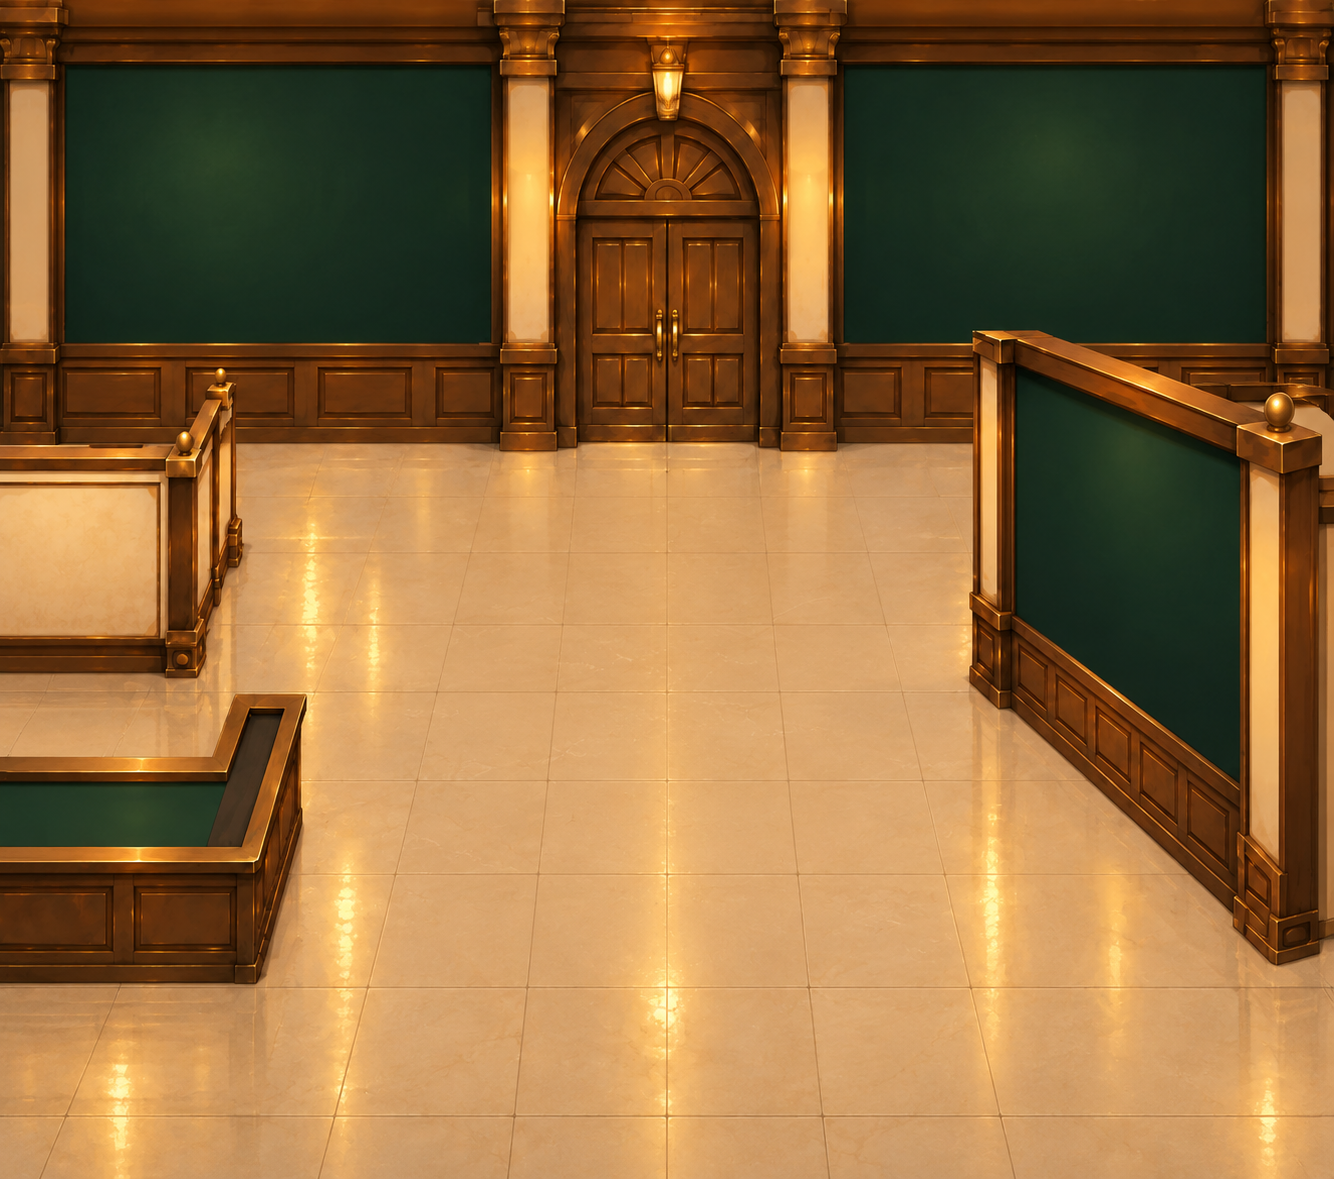
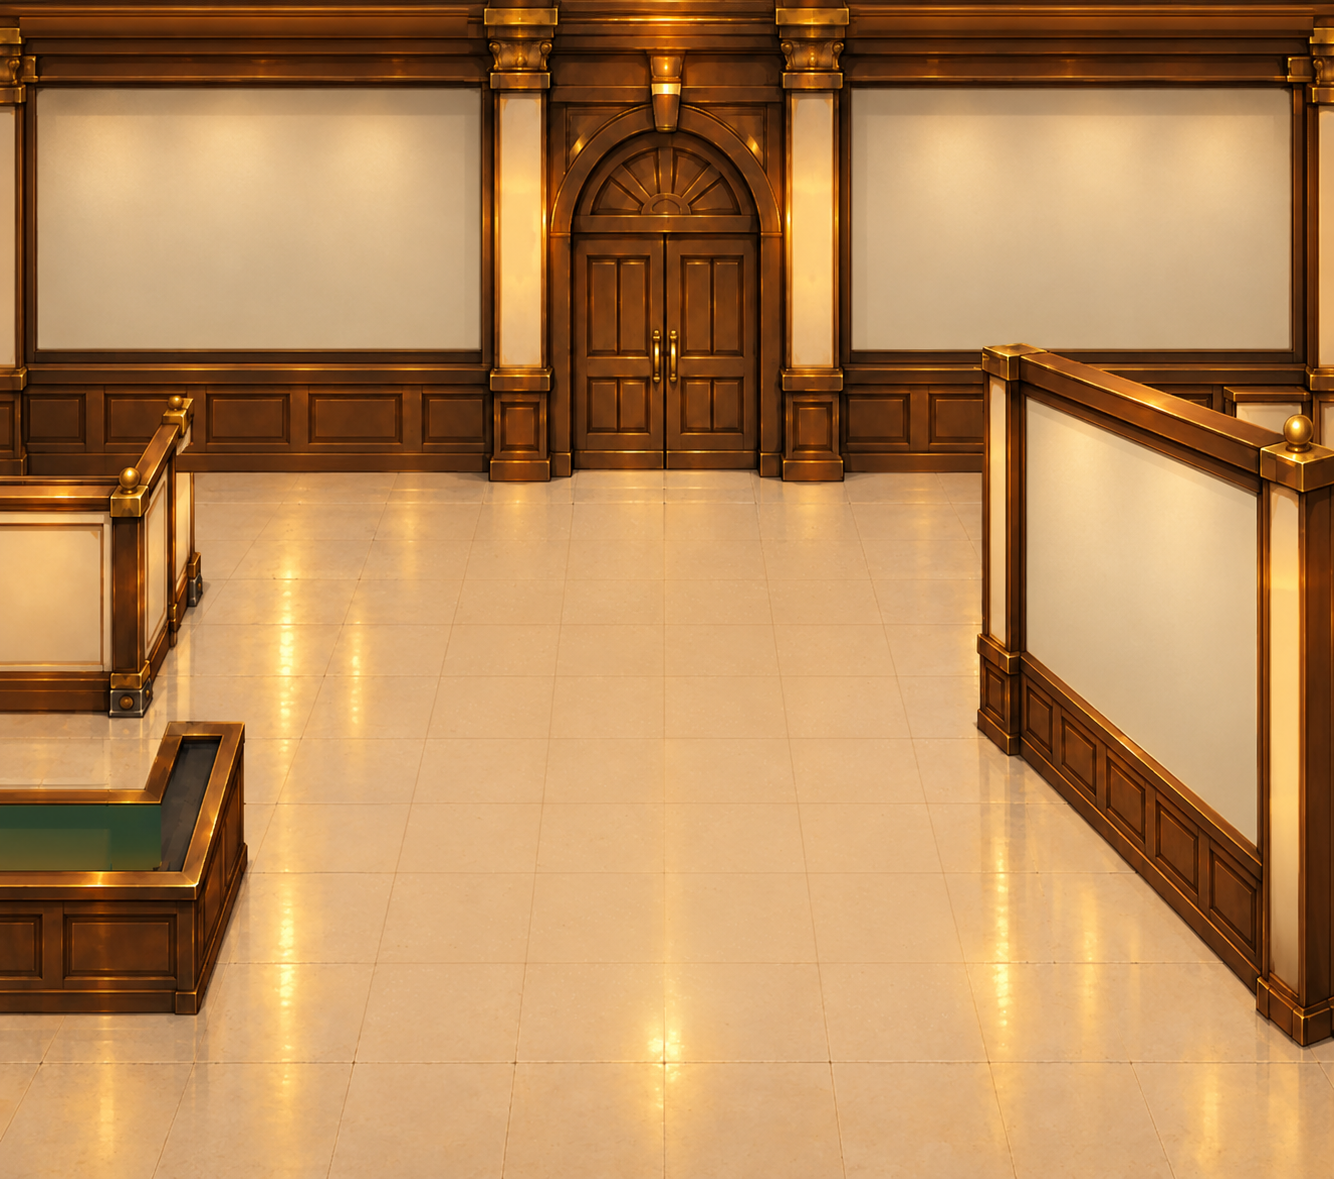
Record approved v11 art and v10-v11 comparison before adoption

diff --git a/a18/build_clean_v11_geometry.py b/a18/build_clean_v11_geometry.py
@@ -1,33 +1,29 @@
-"""Construct only new drawing placement mask and projective geometry.
-No old background pixels reused. The 1334x1179 newly authored image is sole architecture source.
-"""
+"""Recreate front-wall projection only from the approved architectural image."""
 from pathlib import Path
 from PIL import Image,ImageDraw
 import numpy as np,cv2,json,hashlib
 root=Path(__file__).resolve().parent
 dst=root/"layout-test/assets/entrance/v11"
 bg=dst/"entrance_clean_redraw_546x483.png"
-assert Image.open(bg).size==(546,483)
-# Four corners lie inside the green inset, avoiding its wooden border.
-target=np.float32([[419,168],[505,194],[504,343],[419,285]])
+if Image.open(bg).size!=(546,483):raise ValueError("E_BG_DIM")
+# All corners are strictly within the newly approved cream inset, not on the frame.
+target=np.float32([[420,169],[509,194],[507,387],[415,294]])
 source=np.float32([[84,61],[194,61],[194,144],[84,144]])
 H=cv2.getPerspectiveTransform(source,target)
-Hinv=np.linalg.inv(H)
-if not np.isfinite(Hinv).all():raise RuntimeError("invalid perspective transform")
-coords=np.concatenate([source,np.ones((4,1),dtype=np.float32)],axis=1)
-result=(H@coords.T).T
-result=result[:,:2]/result[:,2,None]
-assert np.max(np.abs(result-target))<.02
-s=4
-a=Image.new("L",(546*s,483*s),0)
-draw=ImageDraw.Draw(a)
-draw.polygon([(int(x*s),int(y*s)) for x,y in target],fill=255)
-mask=a.resize((546,483),Image.Resampling.LANCZOS)
+inverse=np.linalg.inv(H)
+if not np.isfinite(inverse).all():raise ValueError("E_H_INVALID")
+proj=(H@np.c_[source,np.ones(4)].T).T
+proj=proj[:,:2]/proj[:,2,None]
+if np.abs(proj-target).max()>=0.02:raise ValueError("E_H_MISMATCH")
+ss=4
+im=Image.new("L",(546*ss,483*ss),0)
+ImageDraw.Draw(im).polygon([(round(x*ss),round(y*ss)) for x,y in target],fill=255)
 out=dst/"front_photo_mask_v11.png"
-mask.save(out,optimize=True)
-count=int(np.count_nonzero(np.asarray(mask)))
-assert 8000<count<15000,count
-manifest=json.loads((dst/"source_manifest.json").read_text(encoding="utf-8"))
-manifest.update({"front_mask_file":str(out.relative_to(root)).replace("\\","/"),"front_mask_sha256":hashlib.sha256(out.read_bytes()).hexdigest(),"front_mask_nonzero_pixels":count,"front_quad":[[int(x),int(y)] for x,y in target],"front_source_corners":[[int(x),int(y)] for x,y in source],"front_inverse_homography":Hinv.tolist(),"open_issues":["central door light remains part of the newly drawn architecture","review portrait frame fit and the 3D wall image projection in actual browser"],"browser_qa":"not_run"})
-(dst/"source_manifest.json").write_text(json.dumps(manifest,ensure_ascii=False,indent=2)+"\n",encoding="utf-8")
-print(json.dumps({"front_H_inverse":Hinv.tolist(),"front_mask_pixels":count},indent=2))
+im.resize((546,483),Image.Resampling.LANCZOS).save(out,optimize=True)
+count=int(np.count_nonzero(np.asarray(Image.open(out))))
+if not 12000<count<21000:raise ValueError(("E_MASK_COUNT",count))
+manifest_path=dst/"source_manifest.json"
+manifest=json.loads(manifest_path.read_text(encoding="utf-8"))
+manifest.update({"front_mask_file":out.relative_to(root).as_posix(),"front_mask_sha256":hashlib.sha256(out.read_bytes()).hexdigest(),"front_mask_nonzero_pixels":count,"front_quad":target.astype(int).tolist(),"front_source_corners":source.astype(int).tolist(),"front_inverse_homography":inverse.tolist()})
+manifest_path.write_text(json.dumps(manifest,ensure_ascii=False,indent=2)+"\n",encoding="utf-8")
+print("FRONT_INVERSE=",json.dumps(inverse.tolist()),"MASK_PIXELS",count)

diff --git a/a18/stage_clean_redraw.py b/a18/stage_clean_redraw.py
@@ -1,21 +1,19 @@
-"""Stage an entirely newly rendered entrance architecture image. Never alter v09/v10 assets."""
-from PIL import Image
+"""Rebuild approved entrance background from the user-approved immutable PNG, never an older draft."""
 from pathlib import Path
+from PIL import Image
 from hashlib import sha256
-import json,shutil
+import json
 root=Path(__file__).resolve().parent
-drive=Path("G:/マイドライブ/A18_entrance_redraw_candidate.png")
-if not drive.is_file():raise FileNotFoundError("Drive image source not synced: "+str(drive))
 source=root/"art-sources/entrance_clean_redraw_master_20261027.png"
-source.parent.mkdir(parents=True,exist_ok=True)
-shutil.copyfile(drive,source)
[1 lines of base64/hex data omitted]
+digest=lambda p:sha256(p.read_bytes()).hexdigest()
+if digest(source)!=expected:raise ValueError("E_APPROVED_A18_ASSET_HASH_MISMATCH")
 im=Image.open(source).convert("RGB")
-if im.size!=(1334,1179):raise ValueError(("unexpected original image dims",im.size))
+if im.size!=(1334,1179):raise ValueError("E_APPROVED_A18_ASSET_SIZE")
 dest=root/"layout-test/assets/entrance/v11"
 dest.mkdir(parents=True,exist_ok=True)
 target=dest/"entrance_clean_redraw_546x483.png"
 im.resize((546,483),Image.Resampling.LANCZOS).save(target,optimize=True)
-fingerprint=lambda p:sha256(p.read_bytes()).hexdigest()
-manifest={"status":"draft_only_not_main_not_released","source_kind":"full_scene_new_image_generation_not_old_v09_patch","canvas":[546,483],"source_file":str(source.relative_to(root)).replace("\\","/"),"source_sha256":fingerprint(source),"game_file":str(target.relative_to(root)).replace("\\","/"),"game_sha256":fingerprint(target),"source_resolution":[1334,1179],"open_issues":["central door sconce remains painted","old foreground homography must be refit","portrait frame may exceed wall green panel"],"approved":False}
+manifest={"status":"approved_image_pending_game_QA","source_kind":"user_approved_image_generated_20261027","source_file":source.relative_to(root).as_posix(),"source_sha256":expected,"source_resolution":list(im.size),"canvas":[546,483],"game_file":target.relative_to(root).as_posix(),"game_sha256":digest(target),"old_draft_sha_is_rejected":True,"approved_image":True,"browser_qa":"pending"}
 (dest/"source_manifest.json").write_text(json.dumps(manifest,ensure_ascii=False,indent=2)+"\n",encoding="utf-8")
-print(json.dumps(manifest,ensure_ascii=False,indent=2))
+print("APPROVED_ORIGINAL",expected,"RESIZED",digest(target))

diff --git a/a18/qa-clean-redraw-20261027/COMPARISON_NOTES.md b/a18/qa-clean-redraw-20261027/COMPARISON_NOTES.md
@@ -1,0 +1,10 @@
+# A18 前回 v10 と今回 v11 採用候補の壁配置比較
+
+- 比較画像: `v10-v11-architecture-only.png`（背景のみ）、`v10-v11-wall-geometry-annotated.png`（展示壁の位置目安）
+- どちらも 546×483 ピクセルの同じ表示範囲。左が公開済み v10 背景、右が承認画像から導出した新規 v11 背景。
+- 赤線は左右奥の展示位置の概形、水色は右手前の壁の写真位置の概形。コリジョン/作品登録の当たり判定ではない。
+- 旧 v10 の奥左は約 x43〜189, y64〜143、奥右は約 x374〜506, y64〜143。新 v11 では奥左が約 x27〜185, y40〜131、奥右が約 x353〜516, y40〜131。
+- 旧 v10 の右手前展示面は概ね y195〜326。新 v11 は概ね y169〜387 と縦方向に大きく広がる。
+- これは実際に絵の構造そのものが変わったためで、旧マスクや展示座標の流用は不可。
+- 比較・監修が済むまでこの v11 は候補。main、公開用 a18-totteoki-museum の main / GitHub Pages は一切更新しない。
+- v11 の既存 renderer の壁位置定義は以前の候補に基づいているため、今回の確定済み新背景に正確に合うかを別途照合してから採用する。現状の検証結果を最終品質保証とみなさない。
